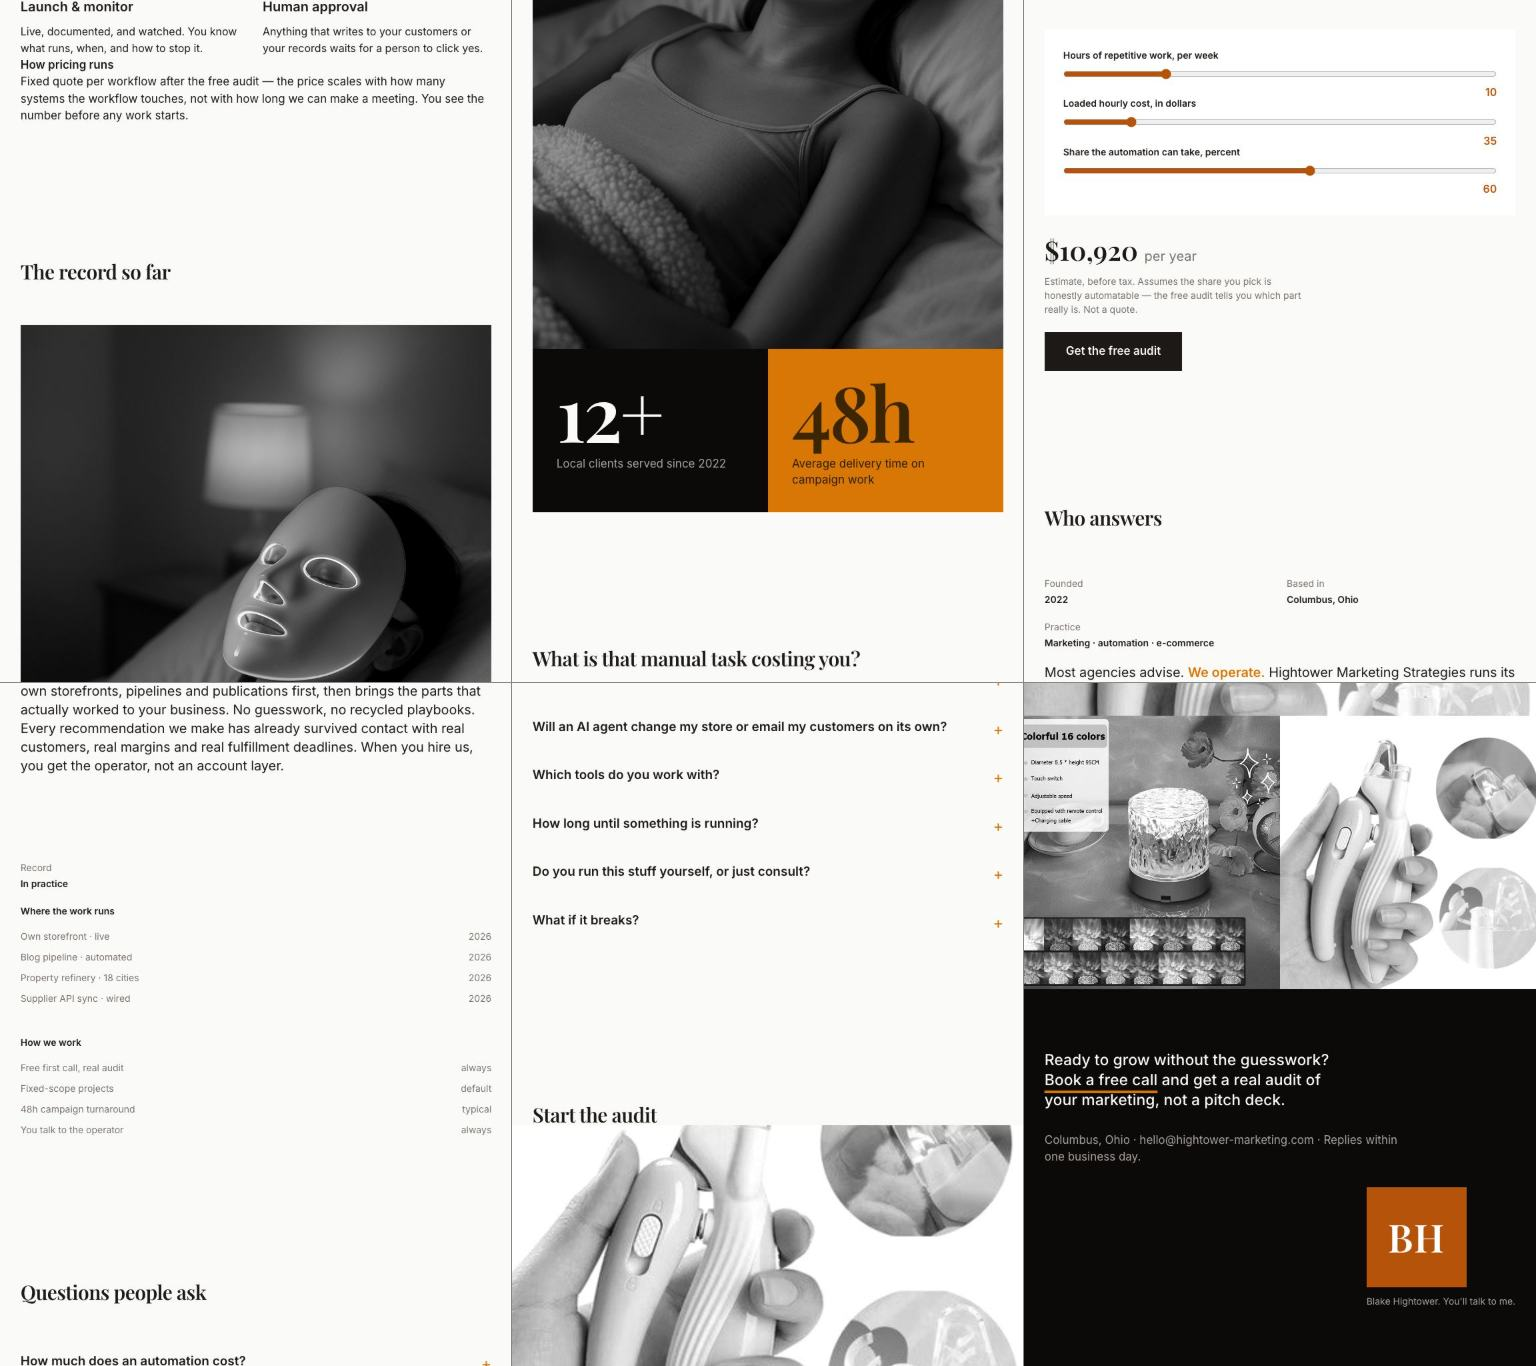
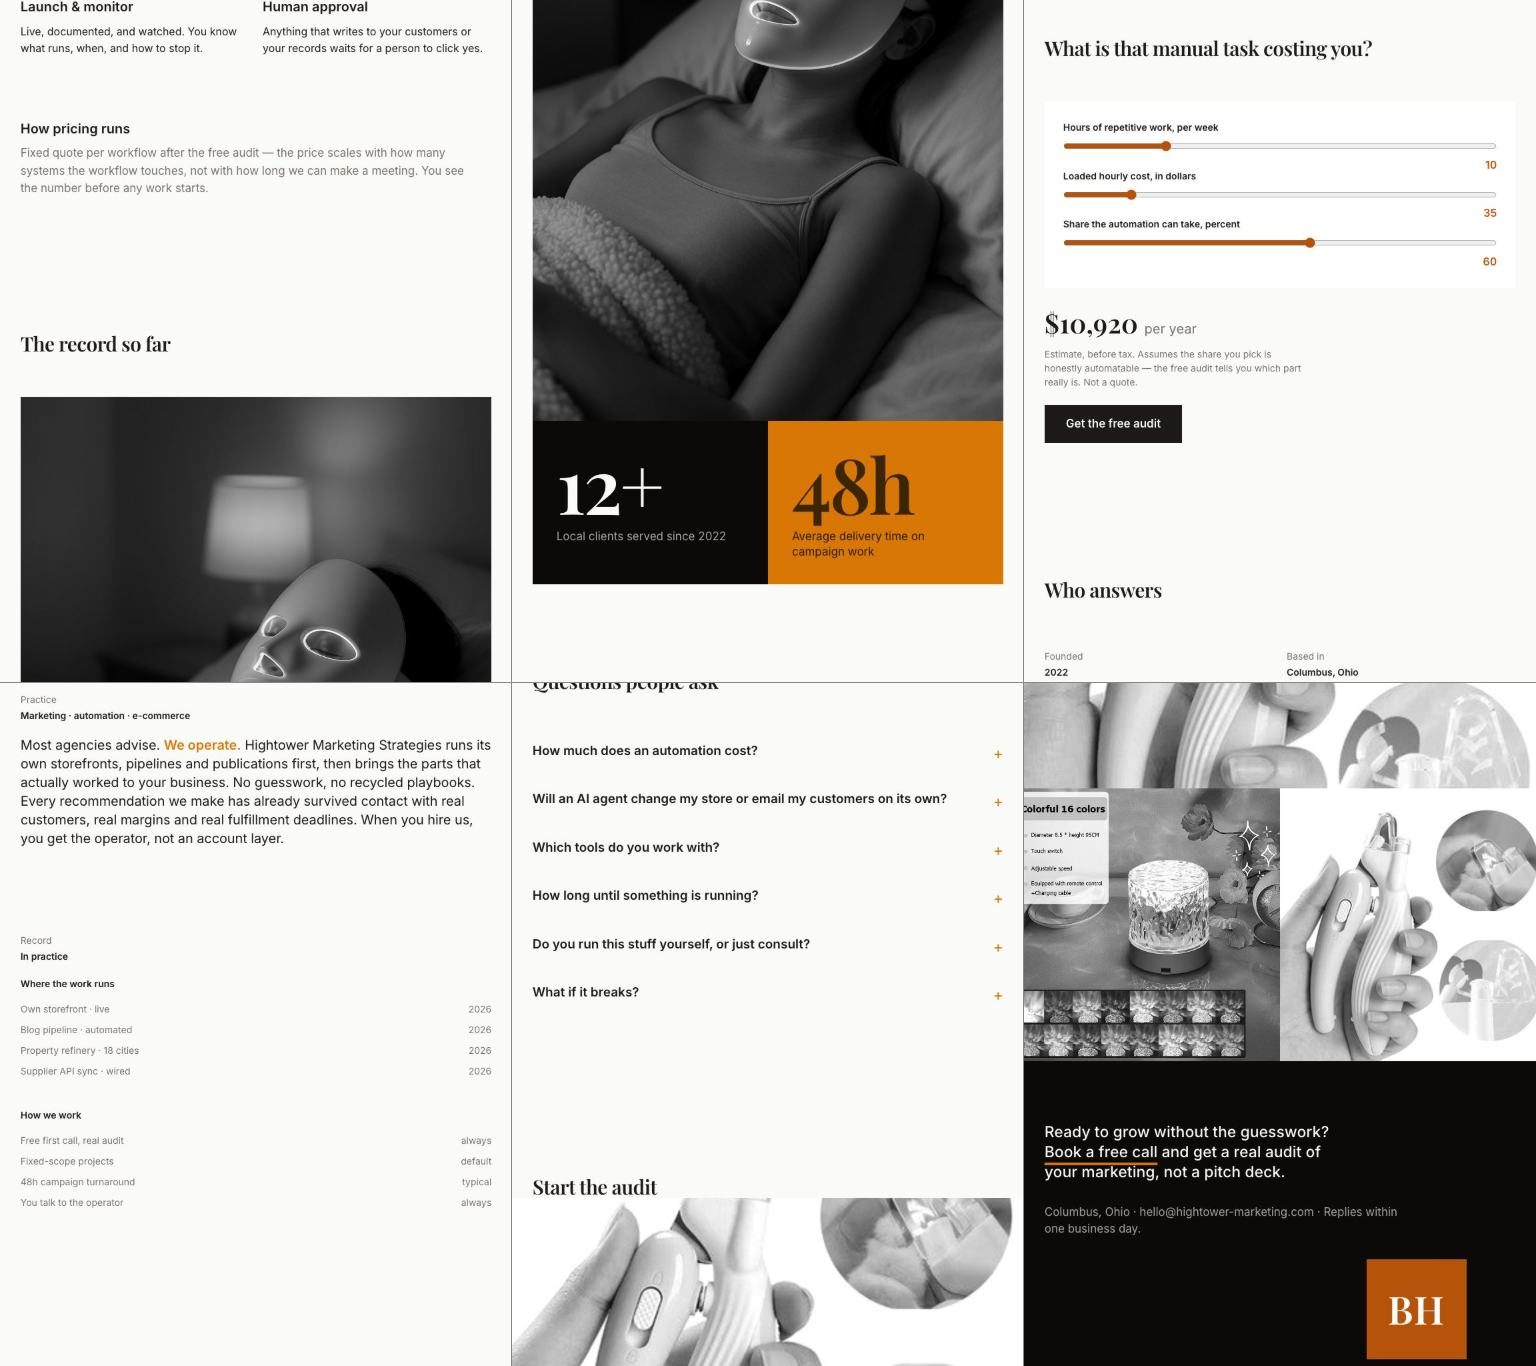
v4.1: Prime r1 fixes — HTML now validates clean (3 stray </div> → </li>), proof-chips HTML restored, unverified claims removed (99% sat/12+ clients/+38% → real numbers: 48h turnaround + 100% manual-step removal), pricing-approach styled, funnel wrapped+padded, tablet features guard @900px

diff --git a/index.html b/index.html
@@ -173,12 +173,12 @@ ul{list-style:none}
 .note:focus{outline:2px solid var(--gold)}
 
 /* blog funnel */
-.notes-funnel{margin-top:clamp(64px,8vw,120px);padding-top:32px}
+.notes-funnel{margin:clamp(64px,8vw,120px) auto 0;padding:32px clamp(20px,4vw,64px) 0;max-width:1440px}
 .notes-funnel .funnel-title{font-size:17px;letter-spacing:0;text-transform:none;color:var(--gold-deep);font-weight:600}
 .funnel-links{display:grid;grid-template-columns:repeat(3,1fr);gap:24px;margin-top:20px}
 .funnel-links a{font-size:17px;font-weight:600;color:var(--ink);text-decoration:none;border-bottom:2px solid var(--gold);padding-bottom:8px;line-height:1.35}
 .funnel-links a:hover{color:var(--gold-deep)}
-@media (max-width:900px){.funnel-links{grid-template-columns:1fr;gap:14px}}
+@media (max-width:900px){.funnel-links{grid-template-columns:1fr;gap:14px}.features .grid{display:block}}
 
 /* process */
 .process-grid{display:grid;grid-template-columns:repeat(4,1fr);gap:32px;margin-top:64px}
@@ -201,6 +201,11 @@ summary::after{content:'+';float:right;font-size:24px;color:var(--gold);font-wei
 details[open] summary::after{content:'–'}
 details p{font-size:16px;color:var(--muted);padding:0 0 20px;max-width:62ch;line-height:1.55}
 details[open] summary{color:var(--gold-deep)}
+
+/* pricing approach */
+.pricing-approach{margin:clamp(56px,8vw,96px) 0 0;padding-top:32px}
+.pricing-approach b{display:block;font-size:20px;font-weight:600;margin-bottom:8px}
+.pricing-approach p{font-size:17px;color:var(--muted);max-width:64ch;line-height:1.55}
 
 /* calculator */
 .calc-grid{display:grid;grid-template-columns:1fr 1fr;gap:clamp(32px,6vw,96px);margin-top:64px;align-items:center}
@@ -437,9 +442,9 @@ footer a:hover,footer a:focus-visible{color:var(--gold-bright)}
 <section class="section wrap" id="process">
   <h2 class="section-title rise">From first call to a running system</h2>
   <ol class="process-grid">
-    <li class="step rise"><b>Audit &amp; scope</b><p>Thirty minutes. We map the work you repeat every week and name the two or three where automation pays back first. Fixed quote after it.</p></div>
-    <li class="step rise"><b>Build &amp; connect</b><p>Workflows built against your real tools and real data, tested before anything touches production.</p></div>
-    <li class="step rise"><b>Launch &amp; monitor</b><p>Live, documented, and watched. You know what runs, when, and how to stop it.</p></div>
+    <li class="step rise"><b>Audit &amp; scope</b><p>Thirty minutes. We map the work you repeat every week and name the two or three where automation pays back first. Fixed quote after it.</p></li>
+    <li class="step rise"><b>Build &amp; connect</b><p>Workflows built against your real tools and real data, tested before anything touches production.</p></li>
+    <li class="step rise"><b>Launch &amp; monitor</b><p>Live, documented, and watched. You know what runs, when, and how to stop it.</p></li>
     <li class="step rise"><b>Human approval</b><p>Anything that writes to your customers or your records waits for a person to click yes.</p></li>
   </ol>
 
